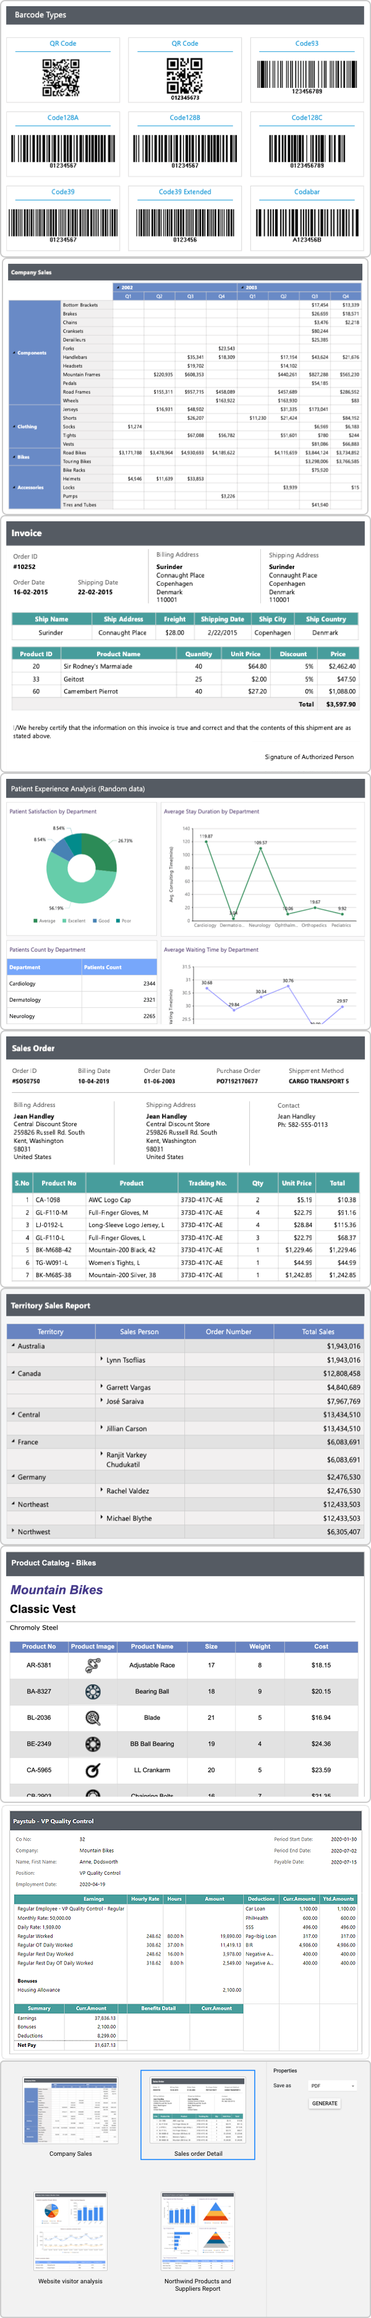
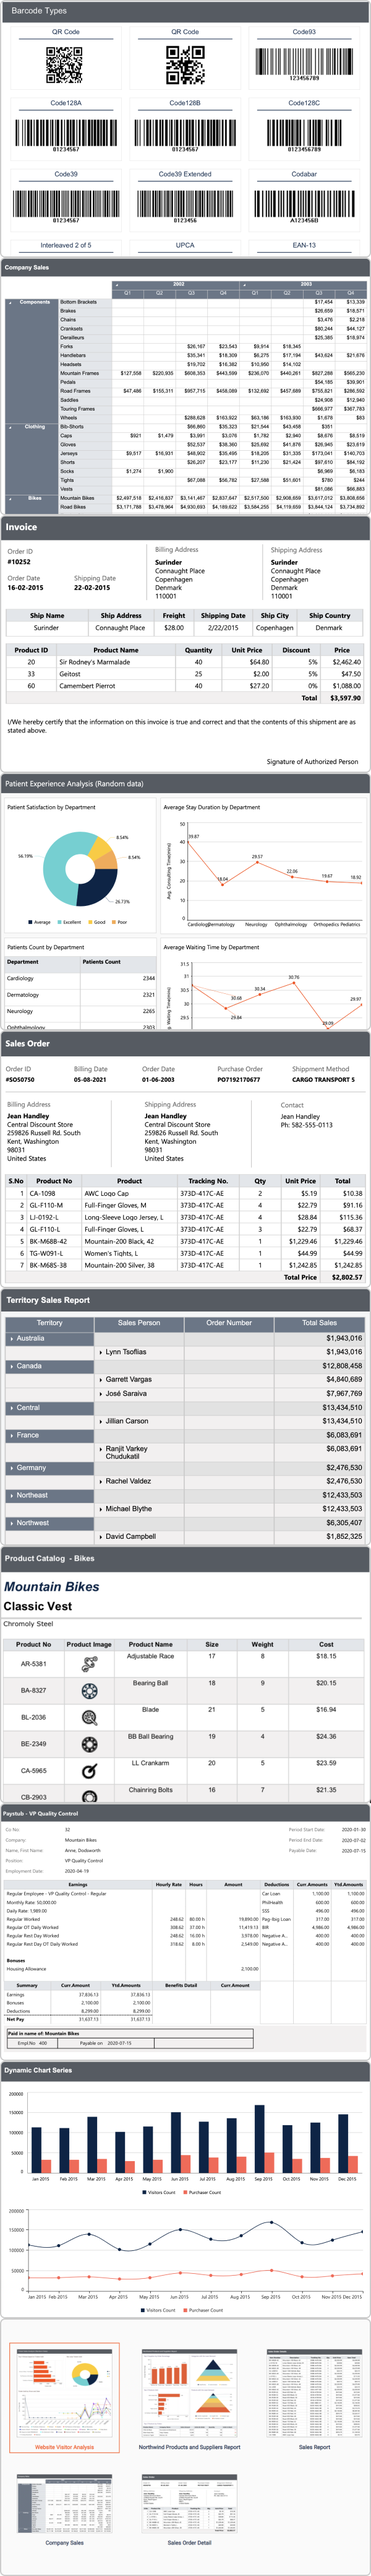
BoldReports v3.2.22 changes

diff --git a/src/common/header/header.css b/src/common/header/header.css
@@ -30,13 +30,14 @@
 
 .ej-sb-header .ej-sb-left-side .ej-sb-hamburger-icon::before {
     content: "\e914";
-    color: #3c78ef;
+    color: #333;
 }
 
 .ej-sb-header .ej-sb-left-side .ej-sb-platform-name {
     font-size: 15px;
     opacity: 0.87;
     font-weight: 600;
+    color: #2b3a5c;
 }
 
 .ej-sb-header .ej-sb-left-side .dropdown button.btn-secondary,
@@ -44,7 +45,7 @@
 .ej-sb-header .ej-sb-left-side .dropdown button.btn-secondary:active,
 .ej-sb-header .ej-sb-left-side .dropdown button.btn-secondary:active:focus {
     background: transparent;
-    color: #000000;
+    color: #2b3a5c;
     opacity: .87;
     border: none;
     box-shadow: none;
@@ -55,11 +56,12 @@
 .ej-sb-header .ej-sb-left-side .dropdown .dropdown-menu a {
     cursor: pointer;
     font-size: 14px;
+    color: #2b3a5c;
 }
 
 .ej-sb-header .ej-sb-left-side .dropdown .dropdown-menu a.active {
     background: transparent;
-    color: #3C78EF;
+    color: #ff5f23;
     cursor: default;
     pointer-events: none;
 }
@@ -108,13 +110,13 @@
     text-decoration: none;
     padding: 5.5px 13px;
     cursor: pointer;
-    background-color: #3C78EF;
+    background-color: #ff5f23;
     color: #ffffff;
     border-radius: 2px;
 }
 
 .ej-sb-header .ej-sb-right-side a.ej-sb-button:hover {
-    background: #006CE6;
+    background: #ff4801;
   }
 
 .ej-sb-header .ej-sb-right-side .sb-icon-product:before {

diff --git a/src/common/sidebar/sidebar.css b/src/common/sidebar/sidebar.css
@@ -34,7 +34,7 @@
 
 .ej-sidebar-content .ej-sb-toc .ej-sb-toc-card:hover,
 .ej-sidebar-content .ej-sb-toc .ej-sb-toc-card.toc-selected {
-  border-color: #1783ff;
+  border-color: #ff5f23;
 }
 
 .ej-sidebar-content .ej-sb-toc .ej-sb-toc-card .ej-landscape-img {
@@ -43,7 +43,7 @@
   width: 120px;
   margin: 8px;
   background-image: url('./../../../assets/sidebar/landscape.png');
-  background-size: 100% 900%;
+  background-size: 100% 1000%;
 }
 
 .ej-sidebar-content .ej-sb-toc .ej-sb-toc-card .ej-portrait-img {
@@ -58,6 +58,11 @@
 .ej-sidebar-content .ej-sb-toc .ej-sb-toc-card .ej-sb-toc-title {
   font-size: 12px;
   font-weight: 600;
+  color: #2b3a5c;
+}
+
+.ej-sidebar-content .ej-sb-toc .ej-sb-toc-card.toc-selected .ej-sb-toc-title {
+  color: #ff5f23;
 }
 
 .ej-sidebar-content .ej-sb-toc .ej-sb-toc-card .ej-status-label {

diff --git a/src/common/main-content/main-content.css b/src/common/main-content/main-content.css
@@ -42,18 +42,18 @@
   padding: 0 12px;
   display: flex;
   align-items: center;
-  color: #000;
+  color:#2b3a5c;
   border-bottom: 2px solid transparent;
 }
 
 .ej-main-body-content .ej-nav-header .ej-nav-item a:hover {
-  color: #0278d7;
+  color: #2b3a5c;
   text-decoration: none;
 }
 
 .ej-main-body-content .ej-nav-header .ej-nav-item a.active {
-  color: #0278d7;
-  border-color: #0278d7;
+  color: #ff5f23;
+  border-color: #ff5f23;
 }
 
 .ej-main-body-content .ej-tab-content .tab-pane {
@@ -64,6 +64,10 @@
 .ej-main-body-content .ej-tab-content .tab-pane#ej-description {
   font-size: 14px;
   margin: 20px 0 15px 15px;
+}
+
+.ej-main-body-content #parentTab .ej-sb-icons{
+  color: #333;
 }
 
 @keyframes slideleft {

diff --git a/src/controls/dynamic-chart-series/dynamic-chart-series.js b/src/controls/dynamic-chart-series/dynamic-chart-series.js
@@ -1,0 +1,14 @@
+/**
+ *Dynamic Chart Series - This sample demonstrates the dynamic chart series .
+ */
+$(function () {
+    $("#container").boldReportViewer({
+        // Specifies the report Web API service URL. It is used to process the reports.
+        reportServiceUrl: window.Globals.SERVICE_URL,
+        // Specifies the path of the RDL report file
+        reportPath: 'dynamic-chart-series.rdl',
+        toolbarSettings: window.Globals.TOOLBAR_OPTIONS,
+        toolBarItemClick: window.Globals.EDIT_REPORT,
+        exportItemClick: window.Globals.EXPORT_ITEM_CLICK
+    });
+});

diff --git a/src/controls/dynamic-chart-series/dynamic-chart-series.html b/src/controls/dynamic-chart-series/dynamic-chart-series.html
@@ -1,0 +1,11 @@
+<div id="container">
+</div>
+<div id="description">
+    <p>
+        This demo shows the VisitorsCount, PurchaserCount, AddedToCartCount by dynamically chossing the chart series.
+    </p>
+    <p>
+        More information about the Chart report item can be found in this <a href="https://help.boldreports.com/enterprise-reporting/designer-guide/report-designer/report-items/chart/"
+                                                                              target="_blank">documentation</a> section.
+    </p>
+</div>

diff --git a/src/controls/globals.js b/src/controls/globals.js
@@ -1,6 +1,6 @@
 window.Globals = {
-    SERVICE_URL: 'https://demos.boldreports.com/services/api/ReportViewerWebApi',
-    DESIGNER_SERVICE_URL: 'https://demos.boldreports.com/services/api/ReportDesignerWebApi',
+    SERVICE_URL: '/demos/services/api/ReportViewerWebApi',
+    DESIGNER_SERVICE_URL: '/demos/services/api/ReportDesignerWebApi',
     TOOLBAR_OPTIONS: {
         showToolbar: true,
         customGroups: [{

diff --git a/build/templates/common/index.css b/build/templates/common/index.css
@@ -223,13 +223,13 @@
     text-decoration: none;
     padding: 5.5px 13px;
     cursor: pointer;
-    background-color: #3C78EF;
+    background-color: #ff5f23;
     color: #ffffff;
     border-radius: 2px;
 }
 
 .ej-preview-header .ej-preview-right-side a.ej-preview-button:hover {
-    background: #006CE6;
+    background: #ff4801;
   }
 
 .ej-preview-header .ej-preview-right-side .preview-icon-product:before {

diff --git a/src/common/index.css b/src/common/index.css
@@ -81,6 +81,7 @@
 }
 
 body {
+  color: #2b3a5c;
   margin: 0;
   background-color: #F2F2F2;
   font-family: "Roboto", "Segoe UI", "GeezaPro", "DejaVu Serif", "sans-serif";
@@ -254,4 +255,8 @@ ej-sidebar {
   .ej-main-child-content {
     left: 0;
   }
+}
+
+#description a{
+  color: #ff5f23 
 }

diff --git a/README.md b/README.md
@@ -49,7 +49,7 @@ Take a look at the Bold Reporting JavaScript live demo [here](https://demos.bold
 
 ## Documentation
 
-A complete Bold Reports documentation can be found on [Bold Reports Help](https://documentation.boldreports.com/javascript/).
+A complete Bold Reports documentation can be found on [Bold Reports Help](https://help.boldreports.com/embedded-reporting/javascript-reporting/).
 
 ## License
 
